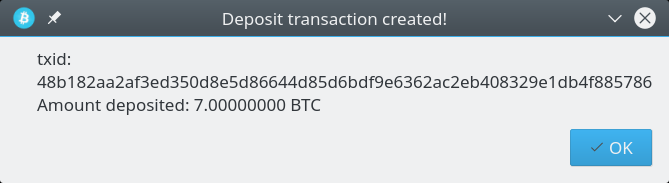
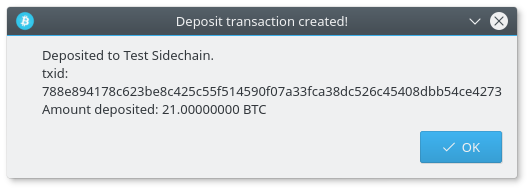
Update testing guide & screenshots

Changed region(s): [[0.0, 0.0, 1.0, 0.9563], [0.9962, 0.9836, 1.0, 1.0], [0.0, 0.9836, 0.0302, 1.0]]

diff --git a/README.md b/README.md
@@ -120,7 +120,7 @@ Get a deposit address from the sidechain tab of the `sidechain` bitcoin-qt.
 Paste the sidechain deposit address into the deposit dialog open on the
 `mainchain` client.
 
-Enter the amount you wish to deposit. In this example we will send 7 BTC to the
+Enter the amount you wish to deposit. In this example we will send 21 BTC to the
 sidechain.
 
 ![](SidechainDepositDialog.png)
@@ -130,19 +130,38 @@ error message if there were issues.
 
 ![](SidechainDepositResultMessage.png)
 
-Generate a block on `mainchain` to add the deposit to the DB.
+Generate a block on `mainchain` to add the deposit to the Sidechain DB.
 ```
 generate 1
 ```
 
-- Generate enough blocks on sidechain to clear the deposit
+- Now we need to start generating sidechain blocks. We need at least one to process our deposit.
 
-From the console tab of the `sidechain` debug window:
+Go to the BMM tab of the sidechain and check the 'Automated BMM' checkbox. You may also want
+to configure the refresh interval (I usually set this to 2 seconds)
+
+![](SidechainPageBMMAutomation.png)
+
+This page will automatically generate a sidechain BMM block, create a BMM commit
+request on the mainchain, and process the BMM block once it has been committed to
+on the mainchain (by mining a mainchain block).
+Once you see that the sidechain has created a BMM request (it will be listed under
+'BMM Requests Created') you will need to mine a block on the mainchain to process
+the BMM request. The sidechain will then be able to submit the BMM block we created
+earlier and extend the side chain.
+
+![](SidechainPageBMMAutomationCreated.png)
+
 ```
-generate 101
+generate 1
 ```
-You should see that 7 BTC have been deposited from the bitcoin mainchain into
-the sidechain address that you specified.
+
+After the first sidechain BMM block is connected, you should see that your deposit
+went through to your sidechain deposit address. Now you must generate another 6
+blocks, for the deposit to mature and become spendable. (Note that the deposit
+maturity requirement has been reduced from 100 to 6 for testing)
+
+![](SidechainPageBMMAutomationConnected.png)
 
 ### Withdraw from sidechain to mainchain
 
@@ -151,7 +170,7 @@ the sidechain address that you specified.
 With the `sidechain` client open, visit the sidechain tab.
 
 Click withdraw, enter the `mainchain` bitcoin address that you would like to
-withdraw to and the amount to withdraw. In this example we will withdraw 3 BTC
+withdraw to and the amount to withdraw. In this example we will withdraw 7 BTC
 from the sidechain and send it back home to bitcoin.
 
 ![](SidechainPageWithdraw.png)
@@ -160,47 +179,53 @@ Click the withdraw button to broadcast it.
 
 ### Trigger WT^ creation, verification and payout
 
-- Generate blocks on sidechain to create and broadcast WT^
+- Generate enough mainchain blocks (which will also create sidechain BMM blocks)
+to trigger the creation, broadcast and eventual payout of a WT^.
 
 `WT^ = grouped withdrawal transactions to be validated by mainchain`
 
-- Generate enough blocks on the `sidechain` client to trigger the creation of
-WT^, which will be broadcast automatically to the bitcoin mainchain. If you are
-following along and made a deposit to SIDECHAIN_TEST then the WT^ creation will
-be triggered every 300 blocks.
+Repeat what you did to process your deposit:
+Generate 1 block on the mainchain, and wait for the BMM Automation page to detect
+this block. The hash of the most recent mainchain block processed will be shown on
+the BMM Automation tab for convenience.
 
-Example (if current block height = 150)
-```
-generate 150
-```
-
-Generate a block on the mainchchain to add the WT^ to the DB and start the
-verification process
 ```
 generate 1
 ```
 
-- Finally, generate blocks on mainchain to trigger WT^ payout
+After you've generated 10 blocks, the WT^ will be broadcast to the mainchain.
+(```tail -F debug.log``` for main & side if you'd like to watch this)
 
-Generate enough blocks on the mainchain to increment the workscore of WT^ up to
-the minimum workscore for the sidechain. If everything worked out correctly you
-will see your `sidechain` withdraw deposited into the `mainchain` bitcoin
-address that you specified.
+Now that the mainchain knows about the WT^, we must generate sufficient
+workscore for the WT^ to be valid for payout. To do this we must keep generating
+mainchain (and thus sidechain) blocks.
 
-Example (SIDECHAIN_TEST minWorkScore = 100)
+- Generate a block on the mainchchain to add the WT^ to the DB and start the
+verification process
+
+Repeat this until the mainchain block height reaches at least 140 which will
+trigger WT^ payout if a WT^ from the test sidechain has sufficient workscore.
+(Note that this workscore and verification period have both been reduced from
+thousands of blocks for testing purposes)
+
 ```
-generate 100
+generate 1
 ```
+
 ![](SidechainWithdrawReceived.png)
 
-If you received the 3 (~2.9 with fee removed) BTC withdrawal that you created
-on the sidechain, everything worked. If not, feel free to open a github issue.
+If you received the 7 (~6.9 with fee removed) BTC withdrawal that you created
+on the sidechain, everything worked. If not, feel free to open a github issue
+after double checking the following:
 
 ### If you encounter an error, start here:
 Confirm the following:
 - You have setup the configuration files as instructed
-- You launched bitcoin-qt with the correct parameters 
+- You launched bitcoin-qt with the correct parameters
 - You have checked out the mainchain and sidechain branches in the correct directories
 
 `The further you stray from this guide the more likely you are to experience
 unknown bugs. Please experiment and report issues via github!`
+
+
+[Submit issues here](https://github.com/drivechain-project/bitcoin/issues)
